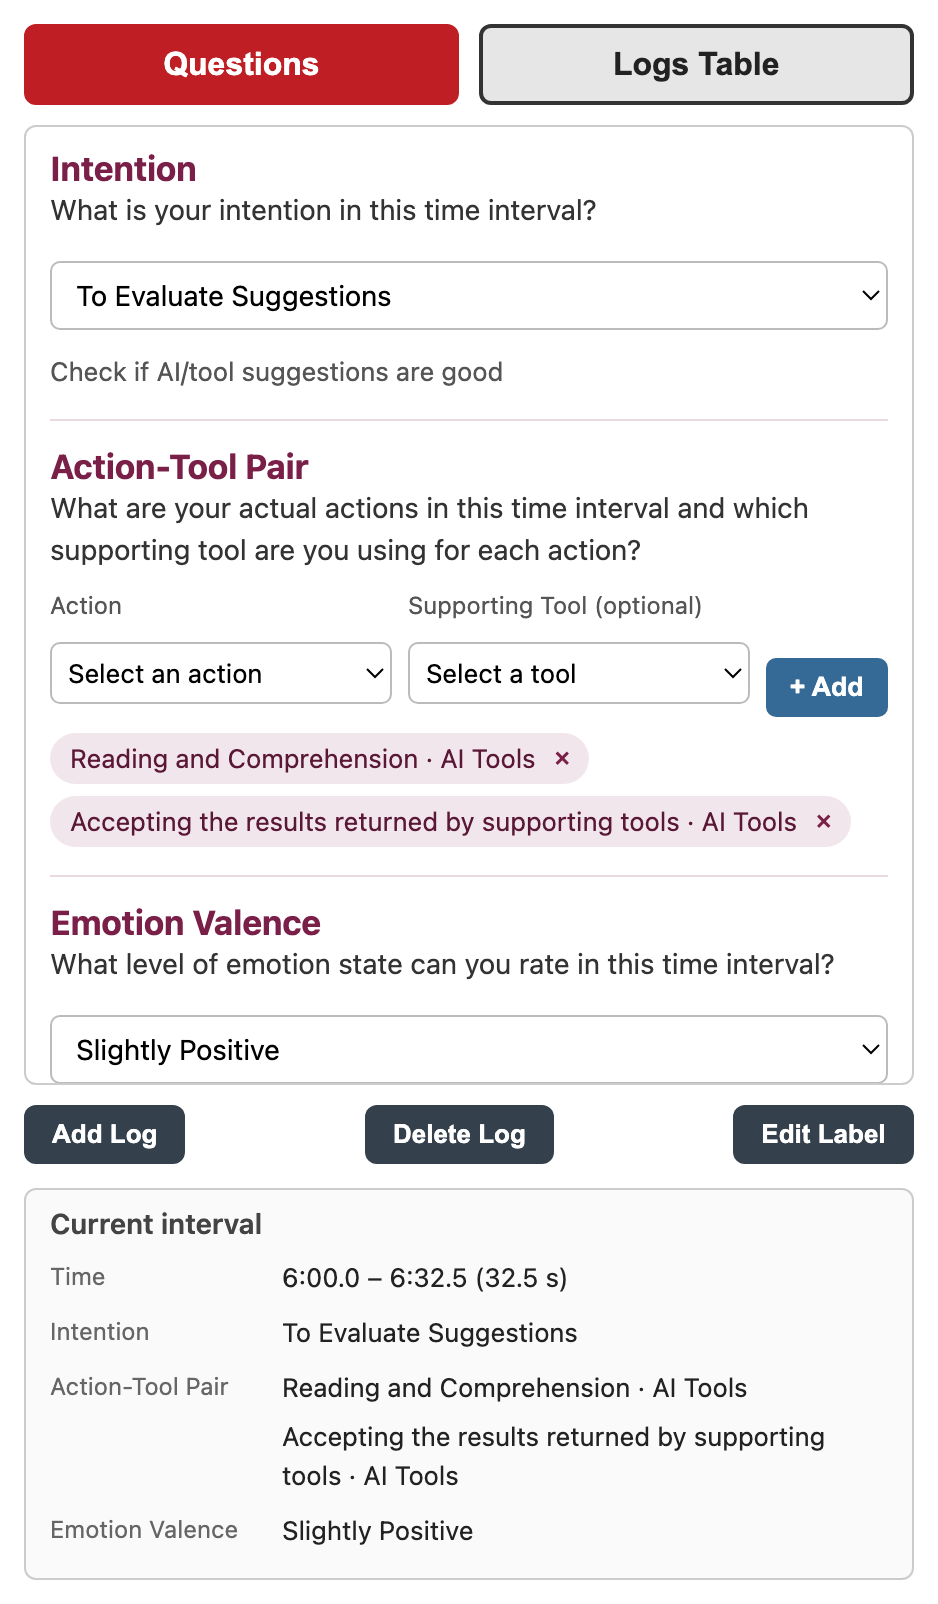
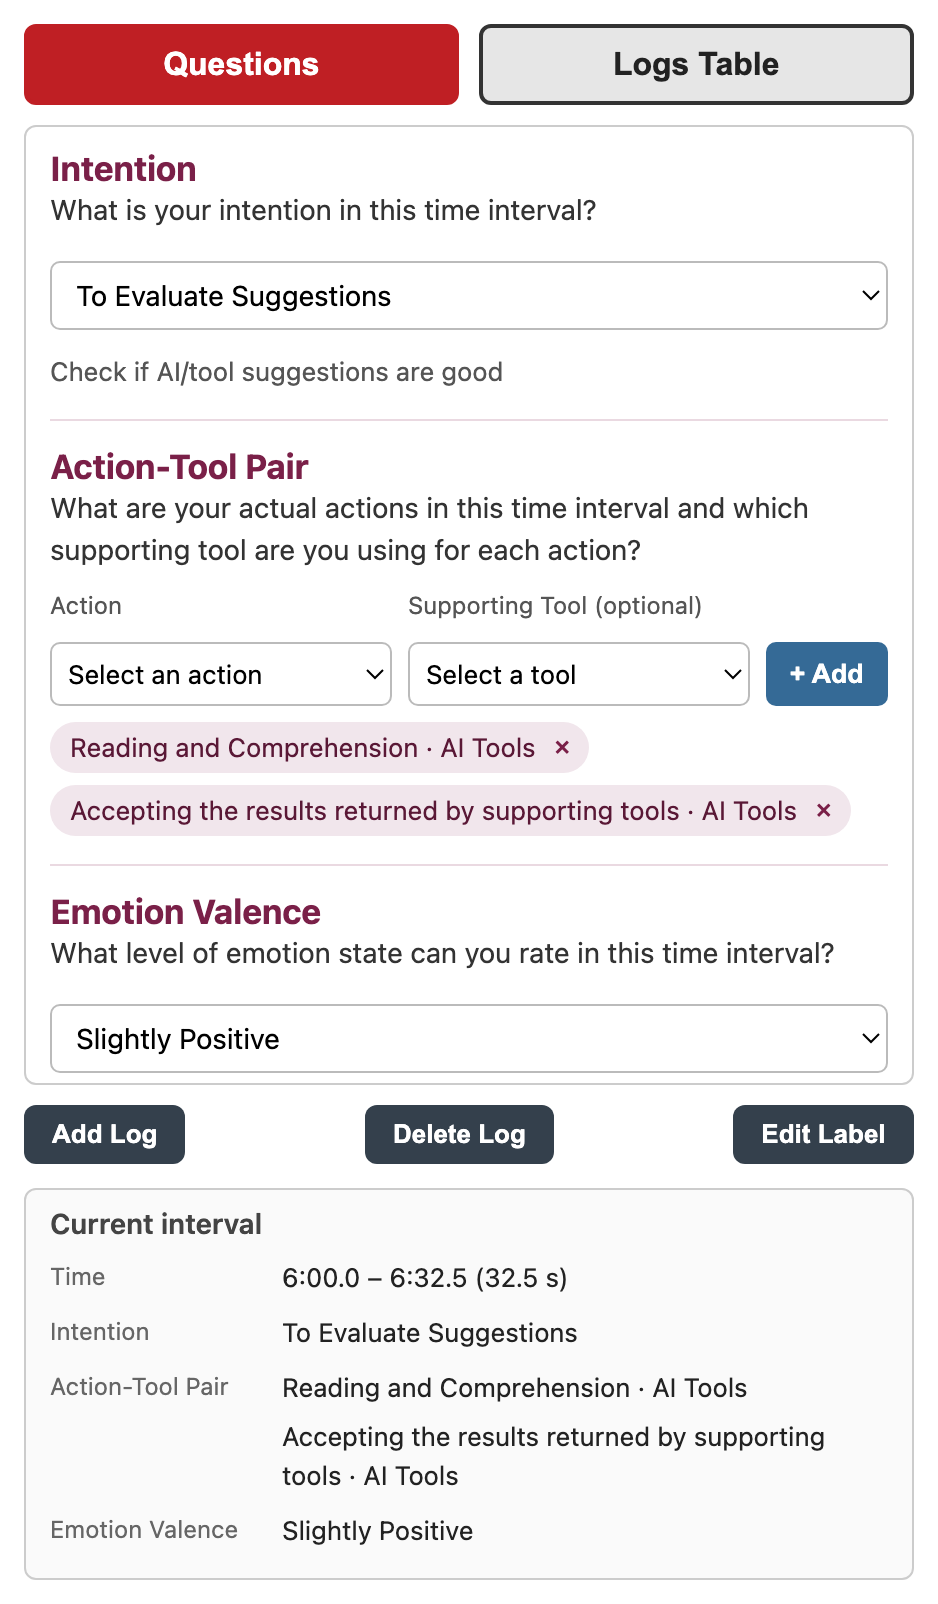
Line up "+ Add" with the action and tool menus
The template's stylesheet gives every select a bottom margin, so in the
bottom-aligned pair row the button sat about 6 px below the menus (and
was 1.5 px shorter). The two menus and the button now share one height
and the menus have no bottom margin. Screenshots retaken.

Changed region(s): [[0.0618, 0.3741, 0.9584, 0.5299], [0.0309, 0.5611, 0.8966, 0.6858], [0.8966, 0.6234, 0.9584, 0.6546]]

diff --git a/app_study/index.html b/app_study/index.html
@@ -50,8 +50,10 @@
     .pair-row { display: flex; gap: 8px; align-items: flex-end; }
     .pair-field { flex: 1 1 0; min-width: 0; }
     .field-label { margin-bottom: 3px; color: #555; font-size: 12px; }
-    .pair-field .dimension-select { padding: 6px 4px; font-size: 13px; }
-    .pair-add { flex: 0 0 auto; padding: 7px 12px; border: none; border-radius: 5px; background: #356a96; color: #fff; font-weight: 600; cursor: pointer; }
+    /* Menus and "+ Add" share one height and no bottom margin (the template gives selects one),
+       so the button sits level with the menus */
+    .pair-field .dimension-select { box-sizing: border-box; height: 32px; margin-bottom: 0; padding: 6px 4px; font-size: 13px; }
+    .pair-add { box-sizing: border-box; height: 32px; flex: 0 0 auto; padding: 0 12px; border: none; border-radius: 5px; background: #356a96; color: #fff; font-weight: 600; cursor: pointer; }
     .pair-add:hover { background: #1e2761; }
     .chips { display: flex; flex-wrap: wrap; gap: 6px; margin-top: 8px; }
     .chip { display: inline-flex; align-items: center; gap: 4px; padding: 3px 4px 3px 10px; border-radius: 14px; background: #f1e6ec; color: #5a1836; font-size: 13px; }

diff --git a/docs/app/index.html b/docs/app/index.html
@@ -50,8 +50,10 @@
     .pair-row { display: flex; gap: 8px; align-items: flex-end; }
     .pair-field { flex: 1 1 0; min-width: 0; }
     .field-label { margin-bottom: 3px; color: #555; font-size: 12px; }
-    .pair-field .dimension-select { padding: 6px 4px; font-size: 13px; }
-    .pair-add { flex: 0 0 auto; padding: 7px 12px; border: none; border-radius: 5px; background: #356a96; color: #fff; font-weight: 600; cursor: pointer; }
+    /* Menus and "+ Add" share one height and no bottom margin (the template gives selects one),
+       so the button sits level with the menus */
+    .pair-field .dimension-select { box-sizing: border-box; height: 32px; margin-bottom: 0; padding: 6px 4px; font-size: 13px; }
+    .pair-add { box-sizing: border-box; height: 32px; flex: 0 0 auto; padding: 0 12px; border: none; border-radius: 5px; background: #356a96; color: #fff; font-weight: 600; cursor: pointer; }
     .pair-add:hover { background: #1e2761; }
     .chips { display: flex; flex-wrap: wrap; gap: 6px; margin-top: 8px; }
     .chip { display: inline-flex; align-items: center; gap: 4px; padding: 3px 4px 3px 10px; border-radius: 14px; background: #f1e6ec; color: #5a1836; font-size: 13px; }
